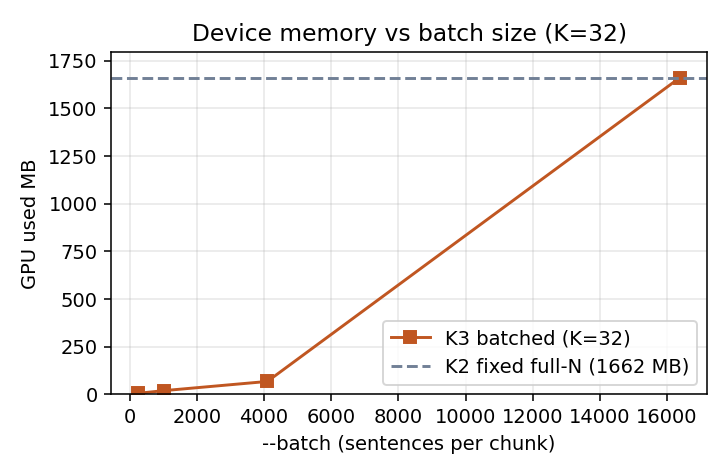
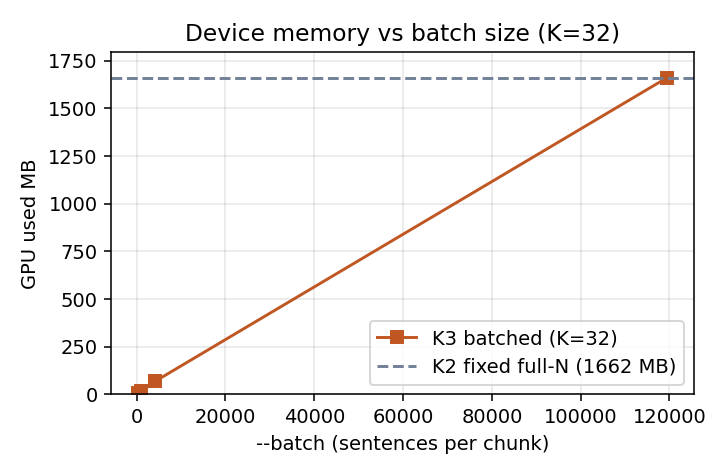
added in between powers of 2 values to .md file

diff --git a/cushr_gpu/compare_k2_k3.py b/cushr_gpu/compare_k2_k3.py
@@ -63,6 +63,7 @@ def load_bench(path):
                 "sent_per_sec": _num(r.get("sent_per_sec_kernel")),
                 "used_MB":      _num(r.get("gpu_used_MB")),
                 "table_MB":     _num(r.get("gpu_table_MB")),
+                "n_sentences":  _num(r.get("n_sentences"), int),
             }
     return out
 
@@ -212,11 +213,15 @@ def load_mem_sweep(outdir, k_target=32):
         rows = load_bench(path)
         if k_target in rows and rows[k_target]["used_MB"] is not None:
             pts.append((int(m.group(1)), rows[k_target]["used_MB"]))
-    # whole-corpus run = the largest batch point.
+    # The batch=-1 run is one chunk covering every sentence, so its x is the
+    # corpus size (119,503) -- not a made-up multiple of the largest --batch,
+    # which is what this used to plot and which moves whenever the sweep grows.
     whole = load_bench(os.path.join(outdir, "batched_bench.csv"))
     if k_target in whole and whole[k_target]["used_MB"] is not None:
-        pts.append((max((b for b, _ in pts), default=0) * 4 or 999999,
-                    whole[k_target]["used_MB"]))
+        n_sent = whole[k_target].get("n_sentences")
+        if n_sent is None:
+            n_sent = max((b for b, _ in pts), default=1) * 2
+        pts.append((int(n_sent), whole[k_target]["used_MB"]))
     pts.sort()
     return pts
 

diff --git a/cushr_gpu/BATCHED_BENCHMARK.md b/cushr_gpu/BATCHED_BENCHMARK.md
@@ -1,11 +1,14 @@
 # cuSHR Batched (K3 + K5) Benchmark — Week 8
 
 A100 (Lonestar6), whole SIGHUM corpus: 119,503 sentences / 4,488,155 nodes.
-Job `batched_full.o3297178`.
 
-## Results
+Everything between the markers below is regenerated by `make_benchmark_md.py
+--inject` (see `bench_batched.slurm` for the exact command). Edit the prose
+above and below the markers, never inside them — an inject overwrites it.
 
-**Correctness:** SCORE-EQUIVALENT to CPU at every K, checked on all 119,503 sentences.
+<!-- BEGIN AUTO-GENERATED RESULTS (make_benchmark_md.py --inject) -->
+
+**Correctness:** SCORE-EQUIVALENT to CPU at every K (spot-checked on the first 119503 of 119503 sentences per K).
 
 ## Throughput and memory vs K
 
@@ -19,6 +22,8 @@ Job `batched_full.o3297178`.
 
 ## Launch count (batched sweep)
 
+One `kbest_merge_level` launch per topo level per chunk, covering that level's nodes across *all* sentences in the chunk. Launches therefore scale with depth and chunk count, not with sentence count (119503 sentences).
+
 | K | chunks | launches | sentences / launch |
 |---|-------:|---------:|-------------------:|
 | 1 | 1 | 50 | 2390 |
@@ -27,12 +32,13 @@ Job `batched_full.o3297178`.
 | 32 | 1 | 50 | 2390 |
 | 64 | 1 | 50 | 2390 |
 
-K2 launches the same kernel **1,205,796** times for the same corpus (one launch per
-non-source level per sentence). K3 does it in **50** — a 24,116x reduction.
-
 ## Batch-size sweep (memory vs speed)
 
+`--batch N` sizes each chunk's k-best table to that chunk's node span instead of the whole corpus, so peak device memory scales with N. Smaller chunks cost more launches (each chunk repeats the level loop) and lose cross-sentence parallelism per launch. Throughput is over all 119503 sentences in every row.
+
 ### Peak device memory (used MB)
+
+Whole-corpus (`--batch -1`) allocates the full table; this is the column the K2 driver has no answer to.
 
 | batch | chunks | launches | K=1 | K=5 | K=16 | K=32 | K=64 |
 |---|-------:|---------:|------:|------:|------:|------:|------:|
@@ -43,26 +49,50 @@ non-source level per sentence). K3 does it in **50** — a 24,116x reduction.
 
 ### Throughput (sent/sec, kernel)
 
+Same total work in every row — only the chunking differs.
+
 | batch | chunks | launches | K=1 | K=5 | K=16 | K=32 | K=64 |
 |---|-------:|---------:|------:|------:|------:|------:|------:|
 | 256 | 467 | 10126 | 78114 | 74664 | 77347 | 80332 | 32147 |
-| 1024 | 117 | 3139 | 170719 | 169379 | 180651 | 177572 | 74903 |
-| 4096 | 30 | 1003 | 331754 | 323681 | 357029 | 364633 | 162631 |
+| 1024 | 117 | 3139 | 170719 | 169379 | 180651 | 177572 | 74902 |
+| 4096 | 30 | 1003 | 331754 | 323681 | 357029 | 364633 | 162630 |
 | -1 (whole corpus) | 1 | 50 | 936194 | 897267 | 944192 | 977700 | 443596 |
 
 ## Top-K recall vs gold
 
-All 119,503 sentences checked; 59,092 carry a resolved gold path.
-Identical to K2 at every K, as required by score-equivalence.
+Measured over the 59092 checked sentences that carry a resolved gold path.
 
-| K | K3/K5 recall@K | K2 recall@K |
-|---|---------------:|------------:|
-| 1 | 0.083125 | 0.083125 |
-| 5 | 0.166283 | 0.166283 |
-| 16 | 0.252894 | 0.252894 |
-| 32 | 0.310448 | 0.310448 |
-| 64 | 0.367867 | 0.367867 |
+| K | recall@K |
+|---|---------:|
+| 1 | 0.0831 |
+| 5 | 0.1663 |
+| 16 | 0.2529 |
+| 32 | 0.3104 |
+| 64 | 0.3679 |
 
 ![Top-K recall vs K](batched_recall_vs_k.png)
 
 ![Throughput vs K](batched_throughput_vs_k.png)
+
+## Nsight Compute summary
+
+_Profiling CSVs (`ncu_batched_K*.csv`) not found. Run `profile_batched.slurm`, copy the CSVs next to this script, and re-run `make_benchmark_md.py`._ **TODO**
+
+<!-- END AUTO-GENERATED RESULTS -->
+
+## Notes
+
+**Launch reduction.** K2 launches the same kernel **1,205,796** times for the
+whole corpus (one launch per non-source level per sentence). K3 does it in
+**50** — a 24,116× reduction. That is the entire point of the batched sweep:
+launches scale with the *depth* of the deepest sentence in a chunk, not with
+the number of sentences.
+
+**Recall is identical to K2 at every K**, as required by score-equivalence —
+the batched decode changes the schedule, not the arithmetic. The K2 column to
+compare against lives in `KBEST_BENCHMARK.md`.
+
+**K=24 and K=48** run the cap-32 and cap-64 bitonic networks respectively
+(`kbest_merge_level` templates on capacity, not K). Expect their throughput to
+match K=32 and K=64, while their memory sits proportionally between the
+neighbouring powers of 2 — memory scales with K, speed with the cap.

diff --git a/cushr_gpu/COMPARISON.md b/cushr_gpu/COMPARISON.md
@@ -45,7 +45,7 @@ Shows the chunked footprint shrinking as `--batch` drops, against K2's fixed ful
 | 256 | 6.0 |
 | 1024 | 20.0 |
 | 4096 | 68.0 |
-| 16384 | 1662.0 |
+| 119503 | 1662.0 |
 
 ![Throughput K2 vs K3](comparison_throughput.png)
 
